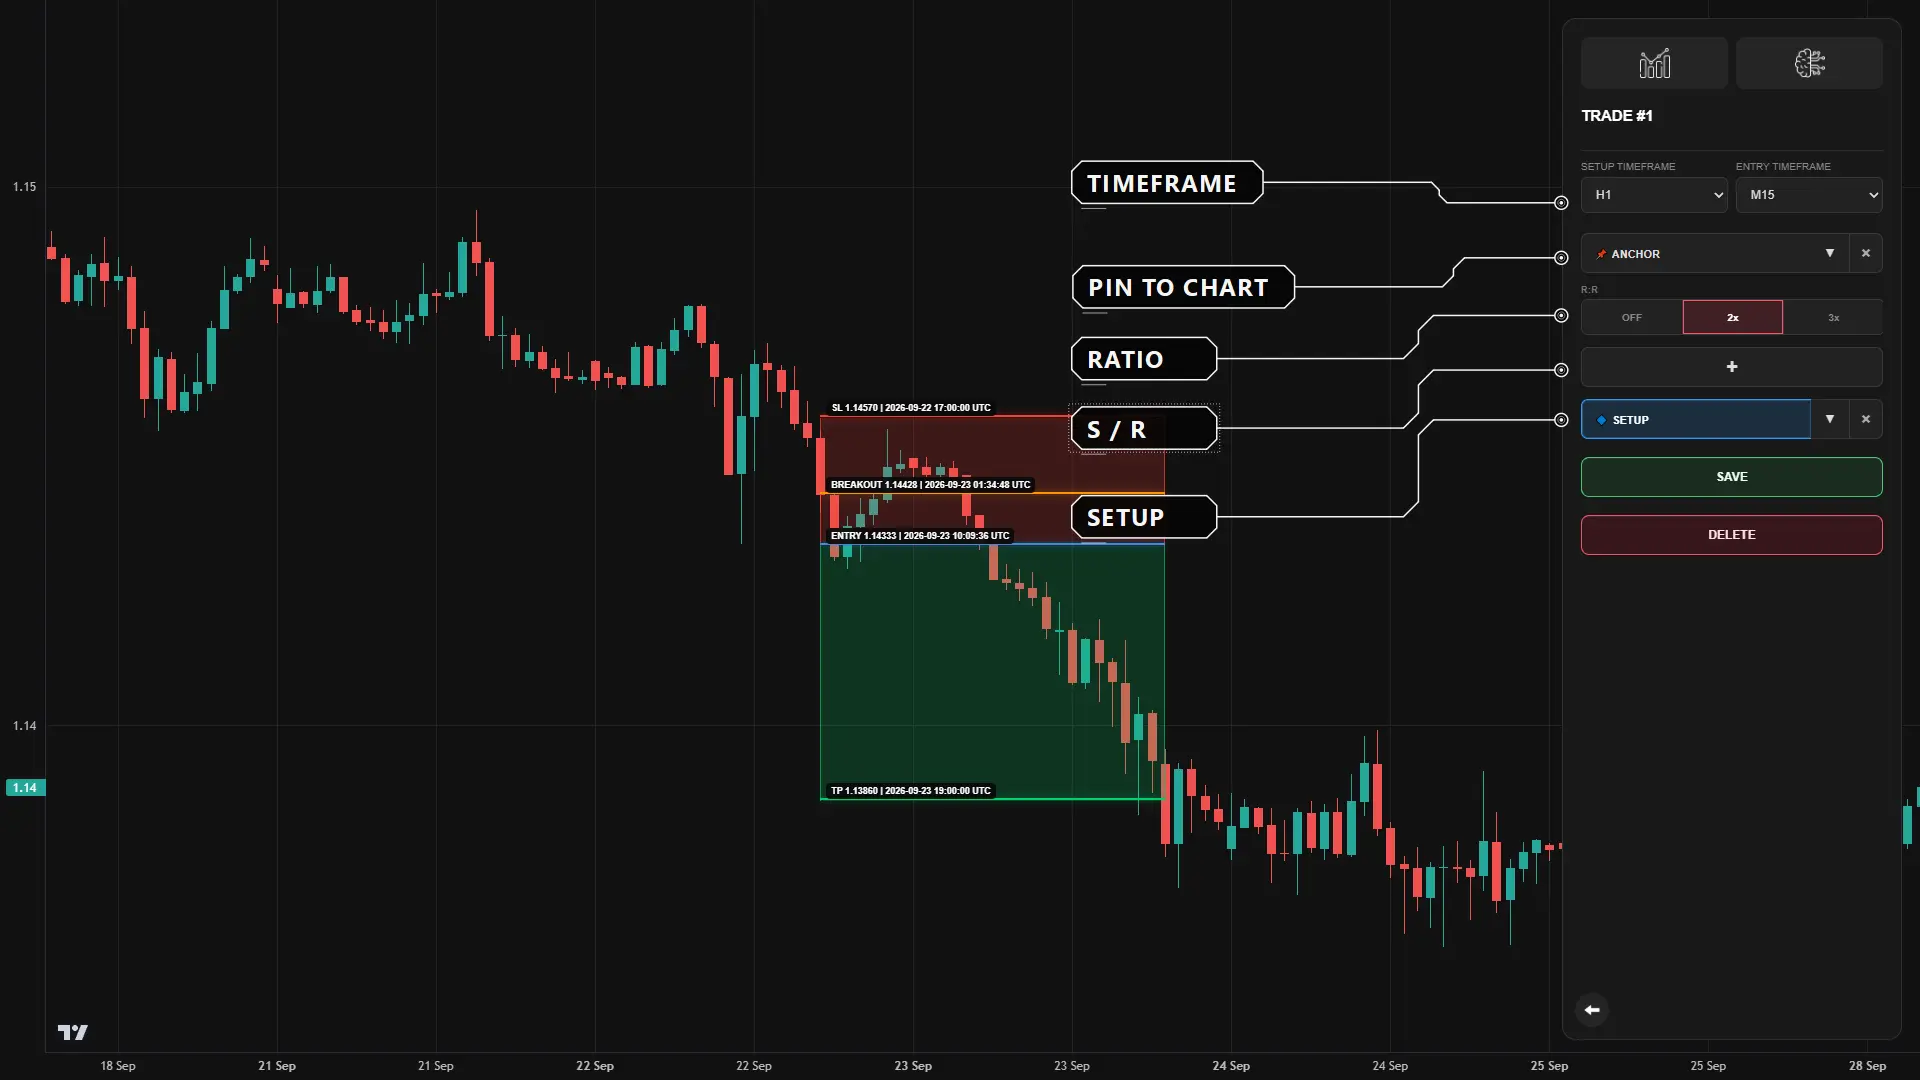
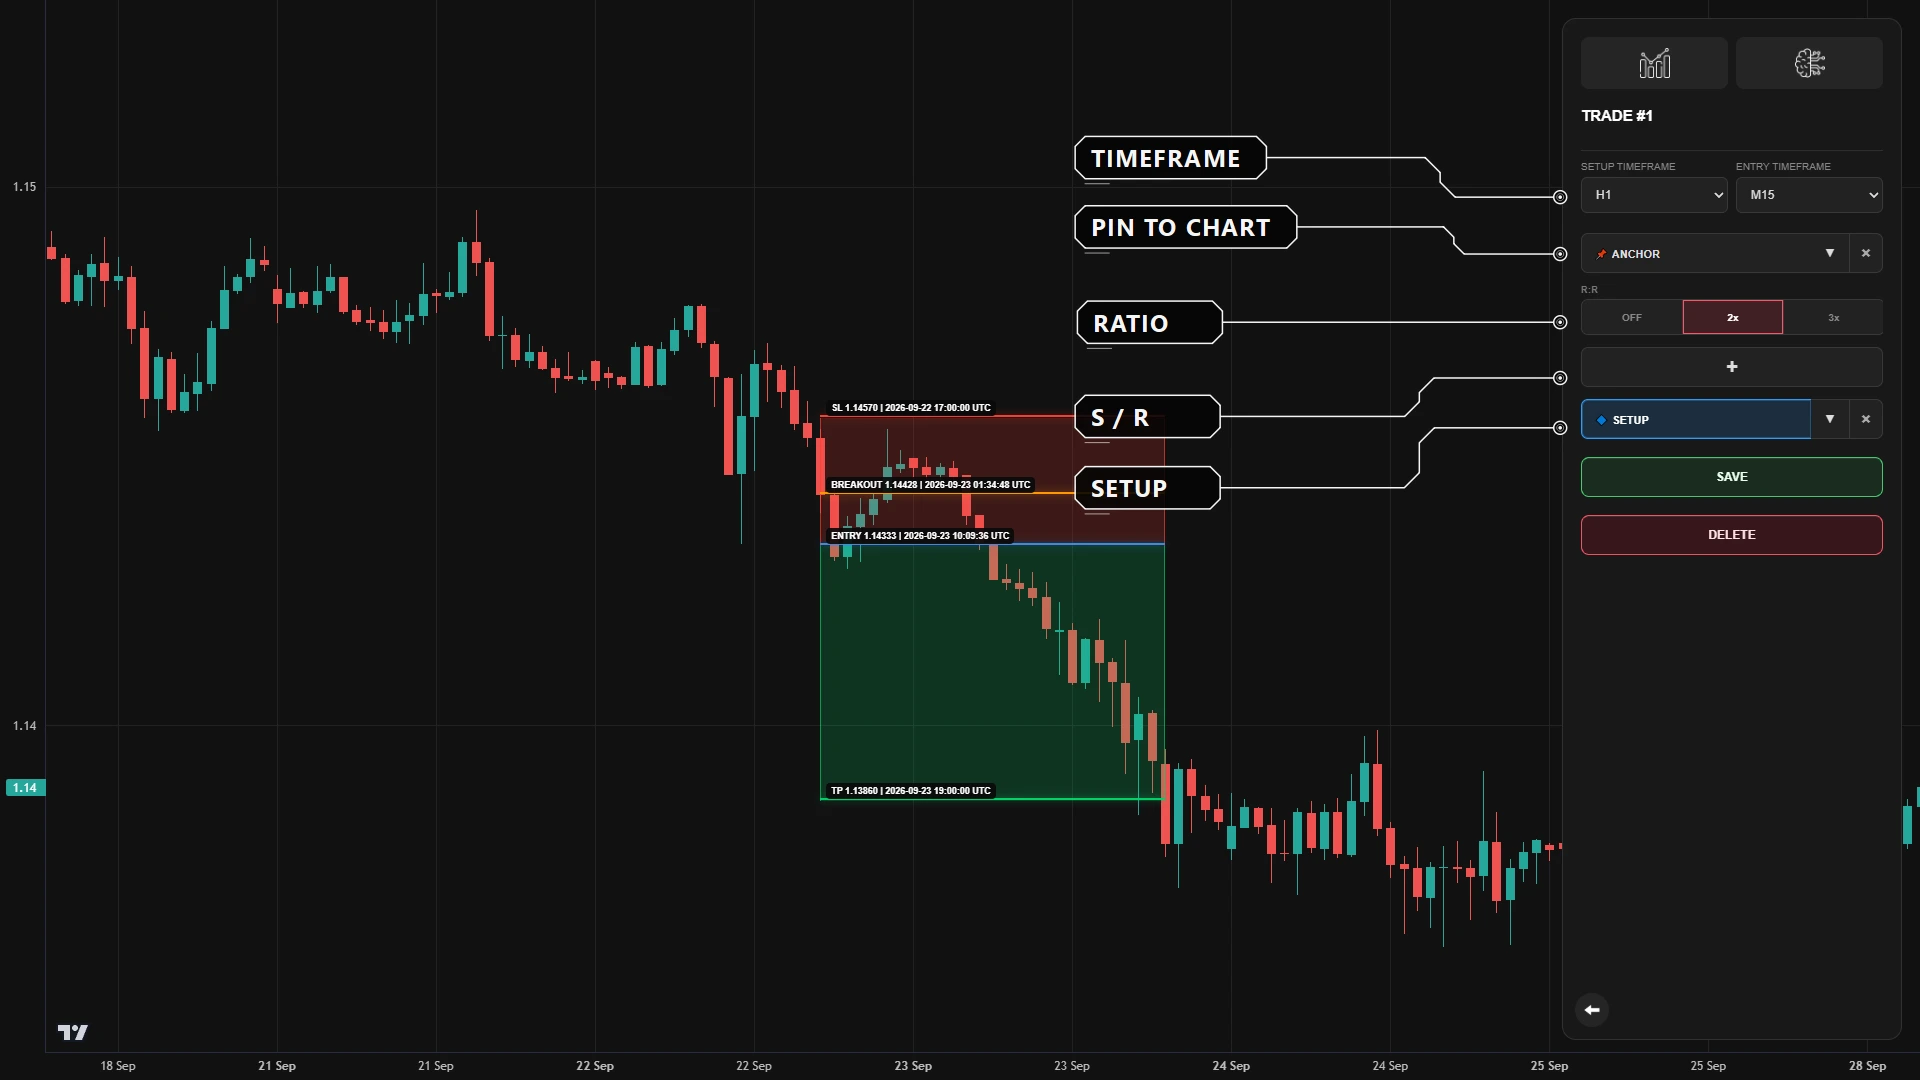
detail changes for portfolio

Changed region(s): [[0.5312, 0.1222, 0.8125, 0.5194], [0.75, 0.275, 0.8125, 0.3056], [0.75, 0.2139, 0.8125, 0.2444]]

diff --git a/tradingbot/frontend.js b/tradingbot/frontend.js
@@ -1145,6 +1145,42 @@ const chartContainer = document.getElementById("chart");
             rectangle
         );
 
+        const entryY = geometry.entry?.price != null
+            ? geometryPriceToY(geometry.entry.price)
+            : null;
+
+        function addSetupArea(targetPrice, className) {
+            if (entryY == null || targetPrice == null) {
+                return;
+            }
+
+            const targetY = geometryPriceToY(targetPrice);
+
+            if (targetY == null) {
+                return;
+            }
+
+            const area = document.createElement("div");
+            area.className = `learning-setup-area ${className} manual-setup-view-only`;
+
+            area.style.left = `${left}px`;
+            area.style.top = `${Math.min(entryY, targetY)}px`;
+            area.style.width = `${width}px`;
+            area.style.height = `${Math.max(1, Math.abs(targetY - entryY))}px`;
+
+            overlay.appendChild(area);
+        }
+
+        addSetupArea(
+            geometry.tp?.price,
+            "learning-setup-profit-area"
+        );
+
+        addSetupArea(
+            geometry.sl?.price,
+            "learning-setup-risk-area"
+        );
+
         const levels = [
             {
                 key: "breakout",
